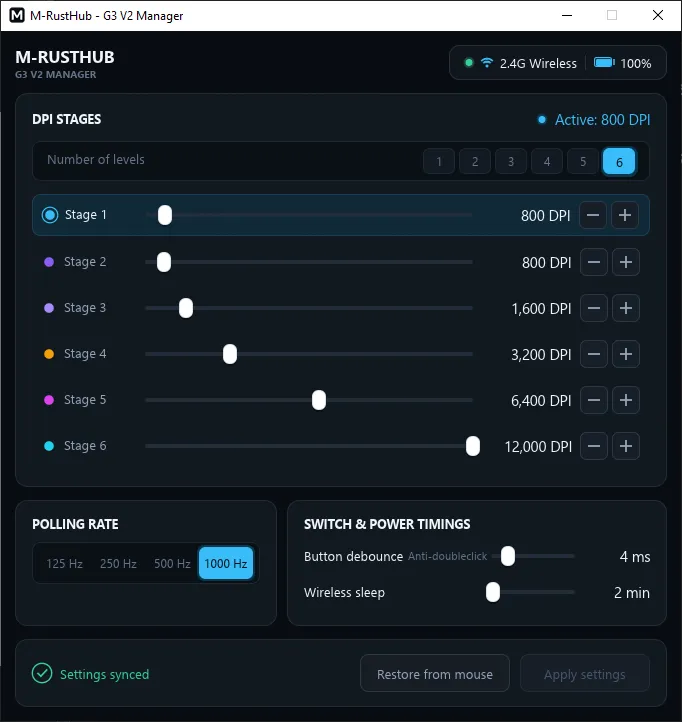
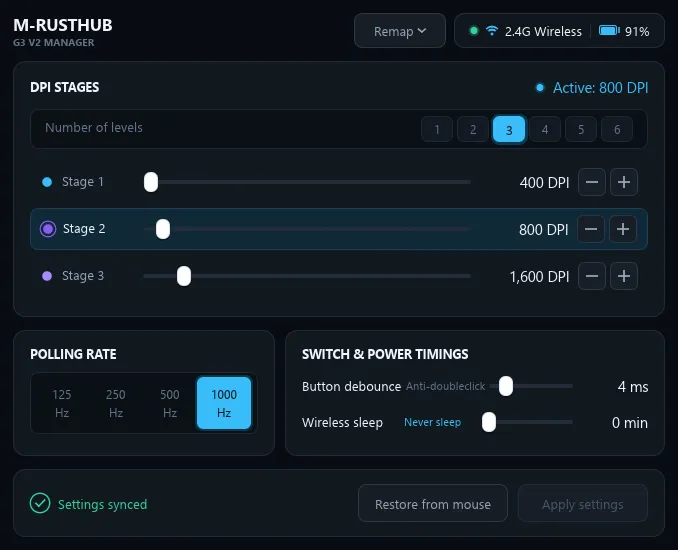
release 1.1.0

diff --git a/src/driver/mod.rs b/src/driver/mod.rs
@@ -477,7 +477,7 @@ impl MchoseMouse {
                 let dpi_stages_count = (resp[11] as usize).clamp(1, 6);
                 let active_dpi_stage = (resp[12] as usize).clamp(1, dpi_stages_count);
 
-                let mut dpi_stages = [800, 1600, 2400, 3200, 5000, 12000];
+                let mut dpi_stages = [400, 800, 1600, 3200, 6400, 12000];
                 for i in 0..6 {
                     let offset = 13 + i * 2;
                     let val = (resp[offset] as u16) | ((resp[offset + 1] as u16) << 8);

diff --git a/README.md b/README.md
@@ -45,6 +45,7 @@ Simply run or double-click `m_rusthub.exe`:
 
 Features available in GUI:
 - **Live Battery Indicator** (Percentage & Charging status)
+- **Button Remapping**: Expandable **Remap** drawer to reassign all 5 physical buttons (Left, Right, Middle, Forward, Backward) with dedicated actions, adjust scroll direction, and reset to defaults
 - **Number of Levels selector (1 to 6)** — customize exactly how many DPI stages are active
 - **DPI customizer** (100 – 12,000 DPI) with interactive sliders and quick ±100 buttons
 - **Polling Rate selector** (125 Hz, 250 Hz, 500 Hz, 1000 Hz)
@@ -52,6 +53,14 @@ Features available in GUI:
 - **Wireless Sleep Timeout**: 0 min – 100 min (0 = Never sleep)
 - **Instant Save to Flash** (Hardware memory)
 - **Factory Reset**: Hold <kbd>Shift</kbd> while hovering over the **Restore from mouse** button to reveal **Factory reset**
+
+<p align="center">
+  <img src="screenshots/mrusthub-buttons_remap.webp" alt="M-RustHub - Mouse button remapping and scroll direction settings" />
+</p>
+
+<p align="center">
+  <img src="screenshots/mrusthub-dpi_stages.webp" alt="M-RustHub - DPI levels and stage customizer" />
+</p>
 
 ---
 
@@ -99,6 +108,21 @@ Features available in GUI:
 .\m_rusthub.exe set-sleep 0
 ```
 
+#### Remap mouse buttons:
+```powershell
+# Syntax: set-button <1-5> <action>
+# Buttons: 1 = Left, 2 = Right, 3 = Middle, 4 = Forward, 5 = Backward
+# Actions: left, right, middle, forward, backward
+
+# Swap Forward and Backward buttons:
+.\m_rusthub.exe set-button 4 backward
+.\m_rusthub.exe set-button 5 forward
+
+# Swap Left and Right click buttons:
+.\m_rusthub.exe set-button 1 right
+.\m_rusthub.exe set-button 2 left
+```
+
 ---
 
 ## 🛠 Building Clean Release
@@ -121,3 +145,9 @@ The clean standalone executable will be placed directly in:
 ## 📄 License
 
 This project is open-source and available under the [MIT License](LICENSE).
+
+---
+
+## ⚠ Disclaimer
+
+This software is provided "as is", without warranty of any kind, express or implied. The author and contributors assume no liability for any direct, indirect, incidental, or consequential damages, hardware malfunction, or loss of data resulting from the use of this tool. Use at your own risk.
